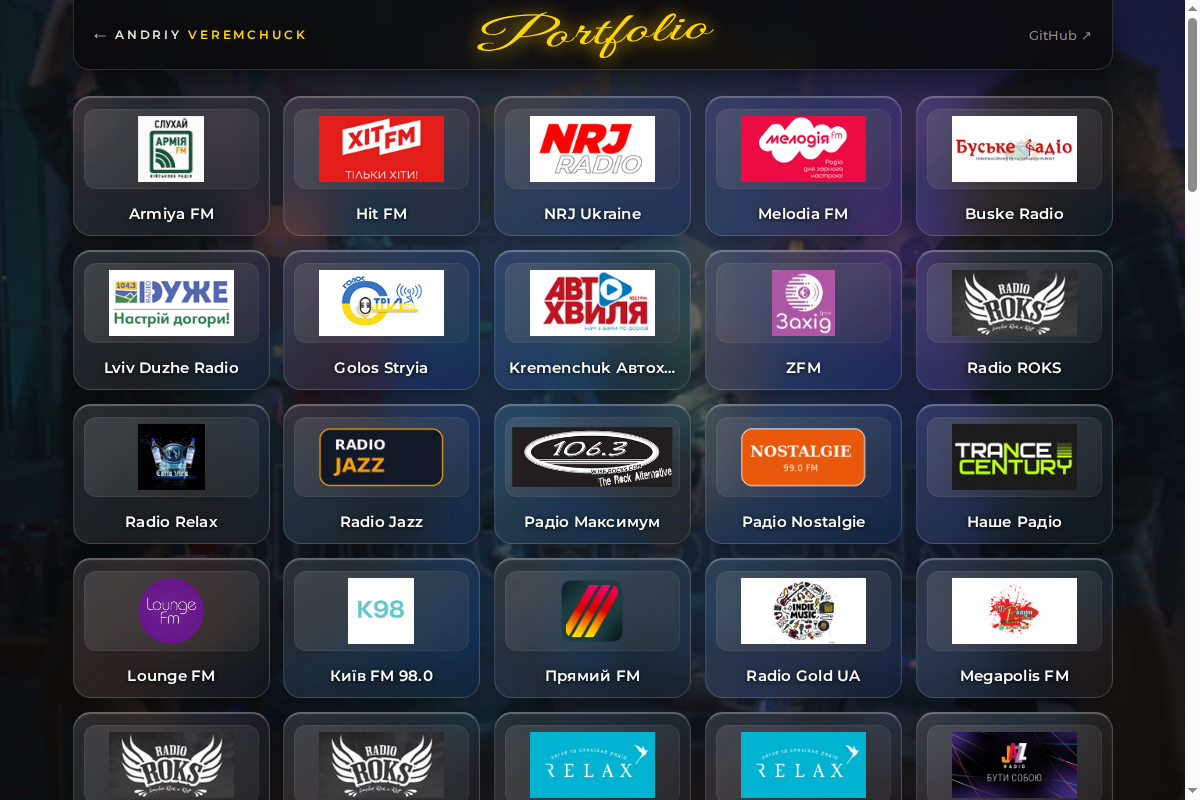
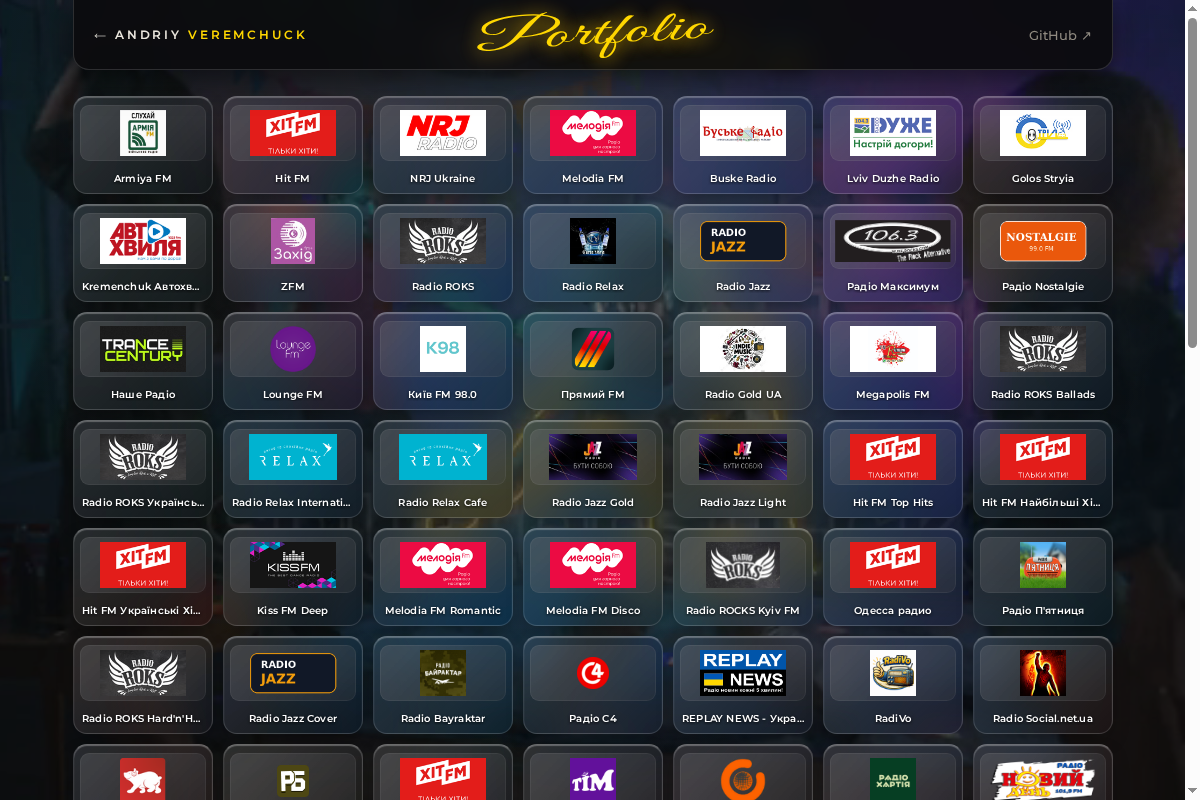
RadioJS: 7 карток у ряд, зменшено розмір карток і шрифт на 30%

diff --git a/index.html b/index.html
@@ -229,22 +229,22 @@
 
         .radio-container {
             display: grid;
-            grid-template-columns: repeat(5, minmax(0, 1fr));
-            gap: 14px;
+            grid-template-columns: repeat(7, minmax(0, 1fr));
+            gap: 10px;
         }
 
         .radio-item {
             background: linear-gradient(135deg, rgba(255, 255, 255, 0.12) 0%, rgba(255, 255, 255, 0.02) 100%), rgba(18, 18, 24, 0.18);
             backdrop-filter: blur(20px) saturate(190%);
             -webkit-backdrop-filter: blur(20px) saturate(190%);
-            border-radius: 18px;
-            padding: 12px 10px;
-            box-shadow: inset 0 1px 1px 0 rgba(255, 255, 255, 0.28), 0 10px 28px -6px rgba(0, 0, 0, 0.35);
+            border-radius: 14px;
+            padding: 8px 6px;
+            box-shadow: inset 0 1px 1px 0 rgba(255, 255, 255, 0.28), 0 8px 20px -5px rgba(0, 0, 0, 0.35);
             overflow: hidden;
             text-align: center;
             cursor: pointer;
             transition: transform 0.3s cubic-bezier(0.16, 1, 0.3, 1), box-shadow 0.3s ease, border-color 0.3s ease, background 0.3s ease, opacity 0.3s ease, filter 0.3s ease;
-            height: 140px;
+            height: 98px;
             display: flex;
             flex-direction: column;
             justify-content: space-between;
@@ -345,11 +345,11 @@
         .playing-indicator {
             display: none;
             position: absolute;
-            top: 10px;
-            left: 10px;
-            height: 14px;
+            top: 6px;
+            left: 6px;
+            height: 10px;
             align-items: flex-end;
-            gap: 2.5px;
+            gap: 2px;
         }
 
         .radio-item.playing .playing-indicator {
@@ -357,11 +357,11 @@
         }
 
         .playing-indicator span {
-            width: 3px;
-            height: 14px;
+            width: 2.5px;
+            height: 10px;
             background-color: #ffd700;
-            box-shadow: 0 0 6px rgba(255, 215, 0, 0.6);
-            border-radius: 2px;
+            box-shadow: 0 0 5px rgba(255, 215, 0, 0.6);
+            border-radius: 1.5px;
             transform-origin: bottom;
             animation: barBounce 0.8s infinite ease-in-out alternate;
         }
@@ -381,16 +381,16 @@
 
         .img-wrapper {
             width: 100%;
-            height: 80px;
+            height: 56px;
             display: flex;
             align-items: center;
             justify-content: center;
-            padding: 6px;
+            padding: 4px;
             background: rgba(255, 255, 255, 0.02);
             backdrop-filter: blur(6px);
             -webkit-backdrop-filter: blur(6px);
             border: 1px solid rgba(255, 255, 255, 0.06);
-            border-radius: 12px;
+            border-radius: 9px;
         }
 
         .radio-item img {
@@ -405,21 +405,22 @@
         }
 
         .radio-item p {
-            font-size: 0.92rem;
+            font-size: 0.65rem;
             font-weight: 600;
             color: #ffffff;
-            text-shadow: 0 1px 4px rgba(0, 0, 0, 0.85);
+            text-shadow: 0 1px 3px rgba(0, 0, 0, 0.9);
             white-space: nowrap;
             overflow: hidden;
             text-overflow: ellipsis;
             width: 100%;
-            padding: 0 4px;
-            letter-spacing: 0.25px;
+            padding: 0 2px;
+            letter-spacing: 0.2px;
+            line-height: 1.2;
         }
 
         .radio-item.playing p {
             color: #ffd700;
-            text-shadow: 0 0 12px rgba(255, 215, 0, 0.6), 0 2px 5px rgba(0, 0, 0, 0.9);
+            text-shadow: 0 0 10px rgba(255, 215, 0, 0.6), 0 1px 3px rgba(0, 0, 0, 0.95);
         }
 
         .radio-item * {
@@ -428,22 +429,36 @@
             -webkit-user-drag: none;
         }
 
-        @media (max-width: 1024px) {
+        @media (max-width: 1080px) {
             .radio-container {
-                grid-template-columns: repeat(4, minmax(0, 1fr));
+                grid-template-columns: repeat(6, minmax(0, 1fr));
             }
         }
 
-        @media (max-width: 768px) {
+        @media (max-width: 860px) {
+            .radio-container {
+                grid-template-columns: repeat(5, minmax(0, 1fr));
+            }
+        }
+
+        @media (max-width: 680px) {
             header h1 {
                 font-size: 1.8rem;
             }
             .radio-container {
-                grid-template-columns: repeat(3, minmax(0, 1fr));
+                grid-template-columns: repeat(4, minmax(0, 1fr));
+                gap: 8px;
             }
         }
 
         @media (max-width: 480px) {
+            .radio-container {
+                grid-template-columns: repeat(3, minmax(0, 1fr));
+                gap: 6px;
+            }
+        }
+
+        @media (max-width: 340px) {
             .radio-container {
                 grid-template-columns: repeat(2, minmax(0, 1fr));
             }
